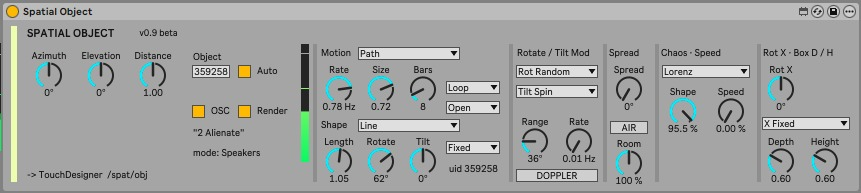
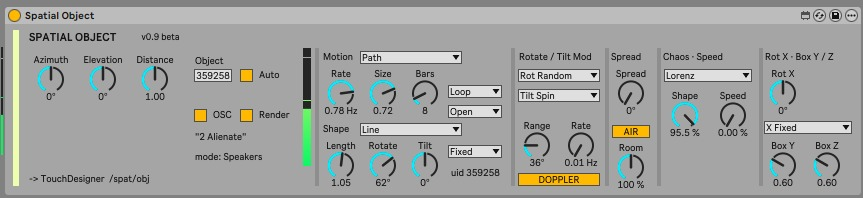
Wiki: device screenshots after the label fix (Box Y / Z, renderer line)
Claude-Session: https://claude.ai/code/session_01TKc1CDoWRtRwsAG1rPAYtG

diff --git a/orbitscore-wiki/index.html b/orbitscore-wiki/index.html
@@ -530,7 +530,7 @@ footer{font:11.5px/1.6 var(--f-mono);color:var(--mid);border-top:1px solid var(-
 <section id="devices">
   <div class="cap">08 — Device reference</div>
   <h2>Device reference</h2>
-  <figure><img src="media/dev-object.jpg?v=1124" alt="Spatial Object device in Live" loading="lazy" width="861" height="193" style="max-width:861px"><figcaption>FIG. 8.1 — Spatial Object</figcaption></figure>
+  <figure><img src="media/dev-object.jpg?v=1124b" alt="Spatial Object device in Live" loading="lazy" width="863" height="198" style="max-width:863px"><figcaption>FIG. 8.1 — Spatial Object</figcaption></figure>
   <h3>Spatial Object</h3>
   <div class="tw"><table>
     <tr><th>Parameter</th><th>Range</th><th>Meaning</th></tr>
@@ -554,7 +554,7 @@ footer{font:11.5px/1.6 var(--f-mono);color:var(--mid);border-top:1px solid var(-
     <li>Keeps the scenes in the set and connects the set to the screen (OSC port 9001; the screen answers on 9002).</li>
   </ul>
   <h3>Spatial Renderer</h3>
-  <figure><img src="media/dev-renderer.jpg?v=1124" alt="Spatial Renderer device in Live" loading="lazy" width="278" height="196" style="max-width:278px"><figcaption>FIG. 8.3 — Spatial Renderer</figcaption></figure>
+  <figure><img src="media/dev-renderer.jpg?v=1124b" alt="Spatial Renderer device in Live" loading="lazy" width="272" height="197" style="max-width:272px"><figcaption>FIG. 8.3 — Spatial Renderer</figcaption></figure>
   <ul>
     <li>Speakers: up to 16 objects in, 64 speakers out, through the <code>OUT</code> tracks. It sets up the object tracks' routing by itself.</li>
   </ul>
@@ -991,7 +991,7 @@ footer{font:11.5px/1.6 var(--f-mono);color:var(--mid);border-top:1px solid var(-
 <section id="ko-devices">
   <div class="cap">08 — Device reference</div>
   <h2>디바이스 파라미터</h2>
-  <figure><img src="media/dev-object.jpg?v=1124" alt="Live의 Spatial Object 디바이스" loading="lazy" width="861" height="193" style="max-width:861px"><figcaption>FIG. 8.1 — Spatial Object</figcaption></figure>
+  <figure><img src="media/dev-object.jpg?v=1124b" alt="Live의 Spatial Object 디바이스" loading="lazy" width="863" height="198" style="max-width:863px"><figcaption>FIG. 8.1 — Spatial Object</figcaption></figure>
   <h3>Spatial Object</h3>
   <div class="tw"><table>
     <tr><th>파라미터</th><th>범위</th><th>뜻</th></tr>
@@ -1015,7 +1015,7 @@ footer{font:11.5px/1.6 var(--f-mono);color:var(--mid);border-top:1px solid var(-
     <li>씬을 세트에 보관하고, 세트와 화면을 연결합니다 (OSC 포트 9001, 화면은 9002로 응답).</li>
   </ul>
   <h3>Spatial Renderer</h3>
-  <figure><img src="media/dev-renderer.jpg?v=1124" alt="Live의 Spatial Renderer 디바이스" loading="lazy" width="278" height="196" style="max-width:278px"><figcaption>FIG. 8.3 — Spatial Renderer</figcaption></figure>
+  <figure><img src="media/dev-renderer.jpg?v=1124b" alt="Live의 Spatial Renderer 디바이스" loading="lazy" width="272" height="197" style="max-width:272px"><figcaption>FIG. 8.3 — Spatial Renderer</figcaption></figure>
   <ul>
     <li>스피커: 오브젝트 최대 16개 입력, 스피커 64개 출력(<code>OUT</code> 트랙 경유). 오브젝트 트랙의 라우팅은 자동으로 설정됩니다.</li>
   </ul>
